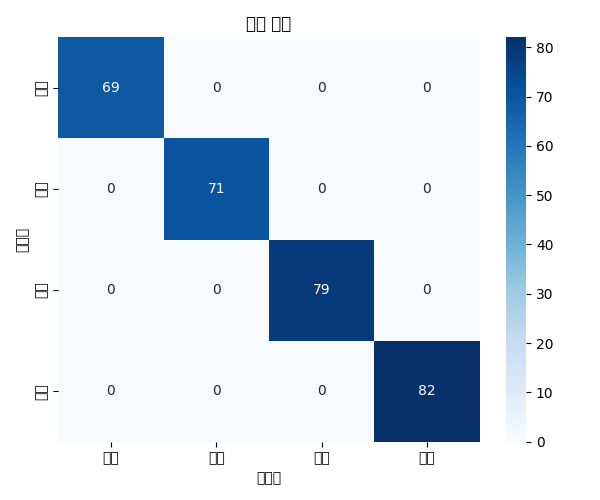
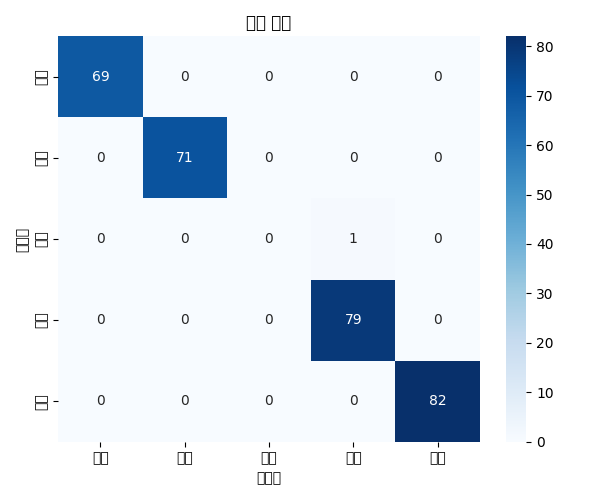
docs : README 수정 - 프로젝트 설명 변경(목적, 기능, 기술 스택 정리) - 서비스 화면 이미지 추가 - Docker 실행 방법 재정리

diff --git a/ai-category-server/train/train_model.py b/ai-category-server/train/train_model.py
@@ -60,6 +60,6 @@ if __name__ == "__main__":
         model, vectorizer, y_true, y_pred, labels = train_model()
         save_model(model, vectorizer)
         plot_confusion_matrix(y_true, y_pred, labels)
-        logger.info("[학습 스크립트 완료")
+        logger.info("[학습 스크립트 완료]")
     except Exception as e:
         logger.error(f"학습 중 오류 발생 : {e}")

diff --git a/README.md b/README.md
@@ -1,78 +1,101 @@
-# 🏦 Simple Remittance System (간단한 송금 시스템)
+# 간단한 송금 시스템
 
-**간단한 송금 시스템**을 구현한 프로젝트입니다.  
-사용자가 본인의 계좌에서 다른 계좌로 송금하고, 거래 내역을 조회할 수 있도록 설계되었습니다.
+## 프로젝트 설명
+- 실제 금융 시스템의 흐름을 연습하고, 거래 데이터 처리, 메시징(Kafka), 그리고 AI 기반 카테고리 분류 같은 확장 기능까지 적용해본 개인 학습용 프로젝트입니다.
+- **Spring Boot + React + FastAPI**를 사용해 백엔드, 프론트엔드, AI 서버를 분리하고,  
+  Docker Compose로 전체 서비스를 묶어 통합적으로 실행할 수 있도록 설계했습니다.
 
-**Spring Boot + React 기반의 풀스택 프로젝트**로,  
-실시간 송금 처리와 거래 내역 조회 기능을 포함하고 있습니다.
+## ✨ 주요 기능
 
----
+- **로그인 / 인증**: JWT 기반 사용자 인증 및 보안 처리
+- **계좌 관리**: 본인 계좌 조회, 잔액 확인
+- **송금 처리**: 입력한 계좌로 송금, 금액 유효성 검증, 송금 처리 후 데이터 업데이트
+- **거래 내역 조회**:
+    - 입금 / 송금 / 전체 필터
+    - 기간별 필터 (1개월, 3개월, 6개월, 전체)
+    - 거래일, 계좌번호, 금액 포맷팅
+    - 거래 내역 복사 기능, 금액 강조 표시
+- **AI 카테고리 분류**:
+    - 송금 메모 내용을 분석해 자동 카테고리 분류 (예: 식비, 교통, 쇼핑)
+    - scikit-learn 기반 간단한 ML 모델 연동
+- **비동기 메시징**:
+    - Kafka로 송금 메시지 처리, 비동기 흐름 구현
+- **컨테이너 기반 실행**:
+    - Docker, Docker Compose로 전체 서비스 통합 실행
 
-## 📌 주요 기능
-
-- 사용자 인증 (JWT 기반 로그인)
-- 계좌 조회 및 송금 기능
-- 송금 요청 시 금액 검증 및 거래 처리
-- 거래 내역 전체 조회
-- 송금/입금 필터, 기간 필터 기능
-- 계좌번호 포맷 적용 (2-3-3)
-- 거래 내역 디자인 개선 (송금/입금 아이콘, 금액 강조, 복사 기능 등)
-
----
-
-## 🚀 진행 상황
-
-### 🔥 현재까지 구현된 기능
-
-- 사용자 인증 및 계좌 조회 API 개발 완료
-- 송금 요청 API 개발 완료
-- 거래 내역 조회 API 개발 완료
-- 프론트엔드 송금 요청 UI 구현
-- 거래 내역 조회 화면 구현
-    - 거래 필터 기능 (입금/송금/전체)
-    - 기간 필터 기능 (1개월, 3개월, 6개월, 전체)
-    - 거래일 포맷, 계좌번호 포맷, 복사 기능 적용
-    - 거래내역 카드 UI 개선
-
----
-
-### 🟢 다음 진행 예정 기능
-
-- 거래 상세보기 모달 기능
-- 거래 금액 요약 표시 (이번 달 총 입금/송금 금액)
-- 거래 검색 기능 (상대 계좌번호, 금액 기준)
-- 거래 내역 페이지네이션 또는 무한 스크롤
-- 관리자 기능, 장애 로그, 알림 기능 (추후 확장 예정)
-- CI/CD, MSA, Kubernetes 환경 구축 (추후)
-
----
 
 ## 🛠 기술 스택
 
-### 🔹 Backend
-- **Spring Boot** - REST API 서버
-- **PostgreSQL** - 데이터베이스
-- **Docker** - 컨테이너 환경
-- **JWT** - 사용자 인증
+### Backend
+- Spring Boot, PostgreSQL, Kafka, JWT, Docker
 
-### 🔹 Frontend
-- **React** - UI 개발
-- **Axios** - API 통신
-- **Tailwind CSS** - UI 스타일링
-- **lucide-react** - 아이콘 사용
+### Frontend
+- React, Axios, Tailwind CSS, lucide-react
+
+### AI Server
+- FastAPI, scikit-learn, pandas, joblib, Python
 
 ---
 
+## 🖼️ 서비스 화면 예시
+
+<table>
+  <tr>
+    <td align="center">메인 화면</td>
+    <td align="center">로그인 화면</td>
+  </tr>
+  <tr>
+    <td><img src="image/main.png" width="300"/></td>
+    <td><img src="image/login.png" width="300"/></td>
+  </tr>
+  <tr>
+    <td align="center">회원가입 화면</td>
+    <td align="center">대시보드</td>
+  </tr>
+  <tr>
+    <td><img src="image/signup.png" width="300"/></td>
+    <td><img src="image/dashboard.png" width="300"/></td>
+  </tr>
+  <tr>
+    <td align="center">이메일찾기 화면</td>
+    <td align="center">비밀번호찾기 화면</td>
+  </tr>
+  <tr>
+    <td><img src="image/findemail.png" width="300"/></td>
+    <td><img src="image/findpassword.png" width="300"/></td>
+  </tr>
+  <tr>
+    <td align="center">전체 계좌 조회</td>
+    <td align="center">계좌 상세</td>
+  </tr>
+  <tr>
+    <td><img src="image/account_list.png" width="300"/></td>
+    <td><img src="image/account_detail.png" width="300"/></td>
+  </tr>
+  <tr>
+    <td align="center">월별 소비 통계</td>
+    <td align="center">거래 내역 조회</td>
+  </tr>
+  <tr>
+    <td><img src="image/monthly_stats.png" width="300"/></td>
+    <td><img src="image/transactions.png" width="300"/></td>
+  </tr>
+  <tr>
+    <td align="center">이체 화면</td>
+    <td align="center">환경 설정</td>
+  </tr>
+  <tr>
+    <td><img src="image/transfer.png" width="300"/></td>
+    <td><img src="image/settings.png" width="300"/></td>
+  </tr>
+  
+</table>
+
+
+---
 ## 🚀 프로젝트 실행 방법
 
-### 1️⃣ Backend 실행
+### 🐳 전체 Docker 실행
 ```bash
-# 프로젝트 클론
-git clone https://github.com/soyoonjeong2328/EzPay.git
-cd simple-remittance-system/backend
-
-# 환경 설정 (DB, Kafka 등)
-docker-compose up -d
-
-# Spring Boot 실행
-./gradlew bootRun
+docker-compose up --build
+```